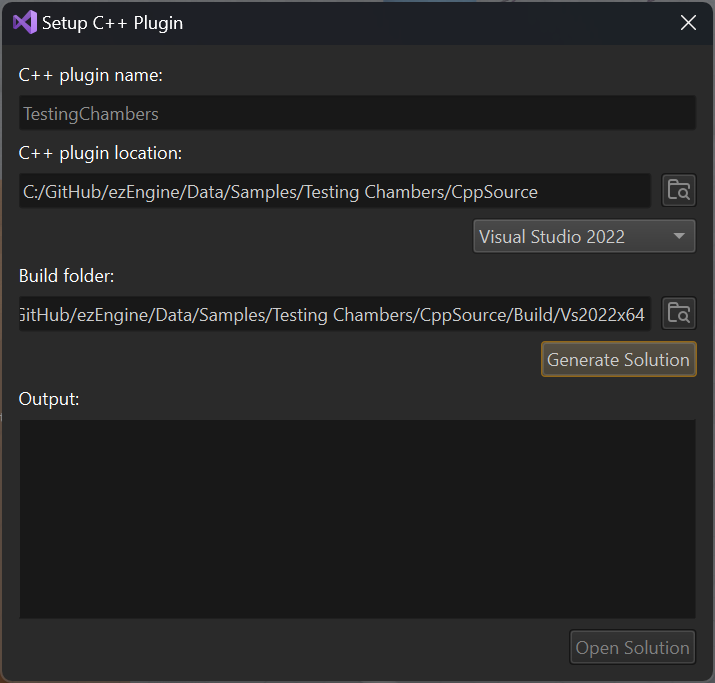
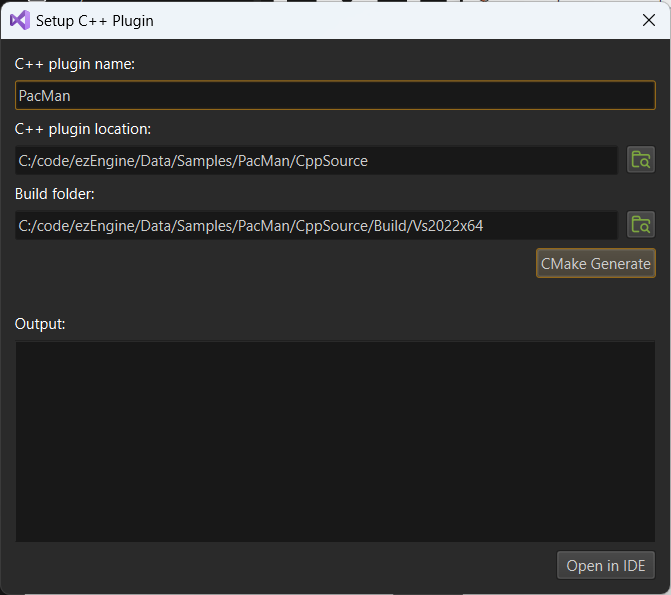
C++ Plugin and Precompiled Tools related documentation changes

Changed region(s): [[0.0, 0.0, 1.0, 1.0], [0.0, 0.9681, 0.5961, 1.0], [0.0, 0.5143, 0.1192, 0.605]]

diff --git a/pages/docs/editor/editor-settings.md b/pages/docs/editor/editor-settings.md
@@ -10,25 +10,43 @@ Preferences are user specific editor settings. Preferences may affect the entire
 
 The list on the left lists all the available preferences. Items prefixed with `Application:` affect the general editor, no matter which project is open. Items prefixed with `Project:` are specific to the currently open project and can be configured differently for other projects. Per-document preferences only show up while a document is open.
 
+### Application: C++ projects
+
+* **C++ IDE:** Select which IDE you want to use as default when opening C++ projects.
+
+* **Compiler Preferences:** Settings on what compiler to use to compile C++ projects.
+
+  * **Compiler Preset:** Select one of the auto detected compiler presets available on your system, or use a "custom" preset to manually configure a compiler.
+ 
+  * **C++ Compiler:** Path to the C++ compiler executable to use.
+ 
+  * **C Compiler:** Path to the C compiler executable to use.
+ 
+  * **RC Compiler:** Path to the resource compiler executable to use.
+
 ### Application: General
 
-* **RestoreProjectOnStartup:** If enabled, the editor will load the project that was open the last time.
+* **Restore Project On Startup:** If enabled, the editor will load the project that was open the last time.
 
-* **ShowSpashscreen:** Disable this to not have a splashscreen show up every time the editor starts.
+* **Show Splashscreen:** Disable this to not have a splashscreen show up every time the editor starts.
 
-* **BackgroundAssetProcessing:** If set, background [assets processing](../assets/assets-overview.md) will be activated by default, when you open a project.
+* **Background Asset Processing:** If set, background [assets processing](../assets/assets-overview.md) will be activated by default, when you open a project.
 
-* **FieldOfView:** The FOV of the generic editor camera.
+* **Field Of View:** The FOV of the generic editor camera.
 
-* **GizmoScale:** Allows you to change the size of the editor gizmos.
+* **Gizmo Size:** Allows you to change the size of the editor gizmos.
 
-* **ShowInDevelopmentFeatures:** Some features (mainly [components](../runtime/world/components.md)) are hidden by default from menus. That's because those features are not considered ready to be used productively. If you do want to try them out regardless, check this option for them to show up.
+* **Show In Development Features:** Some features (mainly [components](../runtime/world/components.md)) are hidden by default from menus. That's because those features are not considered ready to be used productively. If you do want to try them out regardless, check this option for them to show up.
 
-* **UsePrecompiledTools:** If enabled, the editor will prefer to use the tools under `Data\Tools\Precompiled`, rather than the ones from its own binary directory. The precompiled tools are built with maximum optimizations and are therefore typically faster, however, they only get updated infrequently and may not have all the latest features and bugfixes.
+* **Use Precompiled Tools:** If enabled, the editor will prefer to use the tools under `Data\Tools\Precompiled`, rather than the ones from its own binary directory. The precompiled tools are built with maximum optimizations and are therefore typically faster, however, they only get updated infrequently and may not have all the latest features and bugfixes.
 
-* **ExpandSceneTreeOnSelection:** If enabled, selecting an object in a scene will automatically expand the corresponding item in the scene tree view. If disabled, the scene tree will not change on selection from the viewport, and jumping to the selected tree item has to be done manually using `CTRL+T`.
+* **Custom Precompiled Tools:** If not empty use the given path instead of `Data\Tools\Precompiled` when looking for tools. This is especially usefull on Linux if you want fast tools while using a debug build of the editor.
 
-* **ClearEditorLogsOnPlay:** If enabled, the engine log gets cleared every time you [run a scene](run-scene.md).
+* **Expand Scene Tree On Selection:** If enabled, selecting an object in a scene will automatically expand the corresponding item in the scene tree view. If disabled, the scene tree will not change on selection from the viewport, and jumping to the selected tree item has to be done manually using `CTRL+T`.
+
+* **Clear Editor Logs On Play:** If enabled, the engine log gets cleared every time you [run a scene](run-scene.md).
+
+* **Highlight Untranslated UI:** If enabled, the editor will highlight all texts in the UI which are missing a translation.
 
 * **Engine View Light Settings:** Many [assets](../assets/assets-overview.md) have 3D previews that require lighting. These are the lighting settings to use.
 

diff --git a/pages/docs/custom-code/cpp/cpp-project-generation.md b/pages/docs/custom-code/cpp/cpp-project-generation.md
@@ -8,14 +8,18 @@ The most convenient way, however, is to let the editor create a stand-alone proj
 
 > **Note:**
 >
-> One downside with this approach is that your solution does **not** contain the EZ engine sources. That makes it less convenient to search for existing functionality, look up code [API docs](../../api-docs.md) and stepping through EZ code while debugging.
-However, if you want that, you can include the generated plugin as an [external project](../../build/cmake-config.md#external-projects) into the EZ engine solution.
+> One downside with this approach is that your C++ IDE will **not** contain the EZ engine sources. That makes it less convenient to search for existing functionality, look up code [API docs](../../api-docs.md) and stepping through EZ code while debugging.
+However, if you want that, you can include the generated plugin as an [external project](../../build/cmake-config.md#external-projects) into the EZ build system.
 
 ## Video: How to add custom C++ code to your game
 
 [![video](https://img.youtube.com/vi/EGobr-BqhSI/0.jpg)](https://www.youtube.com/watch?v=EGobr-BqhSI)
 
-## How to Generate a New Solution
+## How to Generate a New C++ Project
+
+> **Note:**
+>
+> Generating C++ projects requires a one time setup. Go to the preferences *Tools > Preferences...* and configure the C++ compiler to use for your C++ projects. See [Editor Settings](../../editor/editor-settings.md) for details.
 
 1. Select *Project > C++ Project > Setup C++ Plugin...*. The following dialog will appear:
 
@@ -25,9 +29,7 @@ However, if you want that, you can include the generated plugin as an [external 
 
 1. Choose the desired name for the plugin or leave the default.
 
-1. Choose the desired MSVC solution version.
-
-1. Press the **Generate Solution** button and wait for it to finish.
+1. Press the **CMake Generate** button and wait for it to finish.
 
    The CMake output is output in the *Output* window. In case of errors, please have a look here.
 
@@ -37,17 +39,17 @@ However, if you want that, you can include the generated plugin as an [external 
 >
 > The code has to be built for the very same build type that the editor is running in (*Debug*, *Dev* or *Shipping*), otherwise the editor won't be able to load the DLL. If the build fails because certain EZ DLLs are missing, you are most likely building the wrong build type. The same may be true if you do code changes, but running the game from the editor doesn't reflect those changes.
 
-## Opening an Existing Solution
+## Opening an Existing C++ Project
 
-If you have generated the solution before, the *Open Solution* button will be active right away when you open this dialog. In this case you don't need to generate the solution again. You can also skip this dialog and use *Project > C++ Project > Open Solution* instead.
+If you have generated a C++ project before, the *Open in IDE* button will be active right away when you open this dialog. In this case you don't need to generate the C++ project again. You can also skip this dialog and use *Project > C++ Project > Open in IDE* instead.
 
-## Regenerating a Solution
+## Regenerating a C++ Project
 
-If you have added or removed source files on disk, you need to regenerate the solution for those changes to show up in the Visual Studio solution. You have three options to do so:
+If you have added or removed source files on disk, you might need to regenerate the C++ project for those changes to show up in your IDE. You have three options to do so:
 
-1. Use *Project > C++ Project > Regenerate C++ Solution*.
-1. Run CMake yourself. For example you can use the CMake GUI app, point it to the plugin's build directory, and then *Configure* and *Generate* the solution at any point you like.
-1. Rerun *Generate Solution* from the dialog above. This will **clear the CMake cache** and fully regenerate the solution. Be aware that this resets all CMake options to their default values and often takes longer than strictly necessary.
+1. Use *Project > C++ Project > Regenerate C++ Project*.
+1. Run CMake yourself. For example you can use the CMake GUI app, point it to the plugin's build directory, and then *Configure* and *Generate* the C++ project at any point you like.
+1. Rerun *CMake Generate* from the dialog above. This will **clear the CMake cache** and fully regenerate the C++ project. Be aware that this resets all CMake options to their default values and often takes longer than strictly necessary.
 
 ## See Also
 
